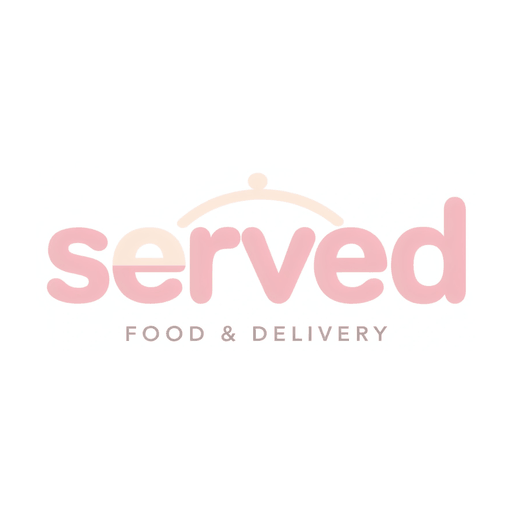
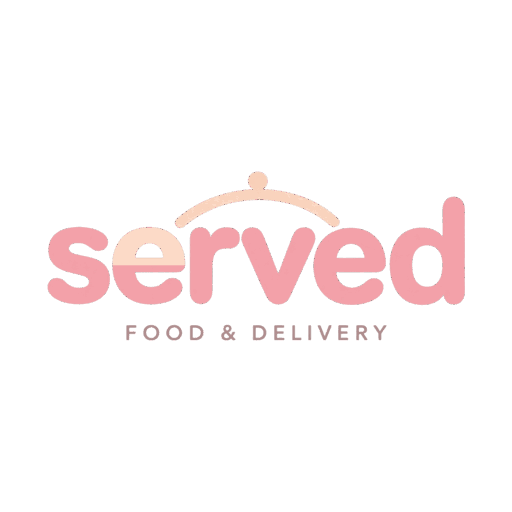
Refine Served branding for Android v1.0.2

diff --git a/web/ordering.js b/web/ordering.js
@@ -159,7 +159,7 @@ export function guestOrdering(app, params) {
         ${native ? button('signout', 'Sign out') : ''}</section>`
       : order ? ticket() : table ? menuCard() : landing();
     app.innerHTML = `<main class="guest order-app">
-      <header class="order-header"><a href="${url({ shell:'guest', ...(native ? { native:'1' } : {}) })}" aria-label="Served home"><img src="/served-logo.png" alt="Served" width="110" height="45"></a></header>
+      <header class="order-header"><a href="${url({ shell:'guest', ...(native ? { native:'1' } : {}) })}" aria-label="Served home"><img src="/served-logo.png" alt="Served" width="88" height="36"></a></header>
       <div class="order-content">${issue ? `<p class="order-error" role="status">${esc(issue)}</p>` : ''}${content}</div>
       <nav class="order-tabs" aria-label="Guest navigation">${tabs.map(([key, glyph, title]) =>
         `<button type="button" data-order-action="tab" data-value="${key}" ${screen === key ? 'aria-current="page"' : ''}>${icon(glyph, 19)}<span>${title}</span></button>`).join('')}</nav>

diff --git a/mobile/src/Entry.js b/mobile/src/Entry.js
@@ -113,7 +113,7 @@ export function Entry({ ready, onWelcome, onSession }) {
 const styles = StyleSheet.create({
   flex: { flex: 1 },
   screen: { padding: 18, paddingTop: 25, gap: 22, width: '100%', maxWidth: 520, alignSelf: 'center' },
-  brand: { width: 106, height: 53, backgroundColor: '#fff' },
+  brand: { width: 84, height: 43 },
   paper: { backgroundColor: '#f7cdd0', padding: 21, borderRadius: 9, gap: 11 },
   title: { color: '#321e32', fontSize: 38, lineHeight: 42, letterSpacing: -1.2, fontWeight: '900' },
   body: { color: '#57364f', fontSize: 15, lineHeight: 22 },

diff --git a/web/styles.css b/web/styles.css
@@ -453,7 +453,7 @@ dialog::backdrop { background: #1a101dc4; }
   .guest { --pad: 17px; padding-inline: 15px; }
 }
 
-.brand-logo, .order-header img { display: block; background: #fff; object-fit: contain; }
+.brand-logo, .order-header img { display: block; object-fit: contain; }
 .order-app { max-width: 610px; padding-bottom: 109px; }
 .order-header { padding: 5px 6px 15px; }
 .order-header a { display: inline-block; }
